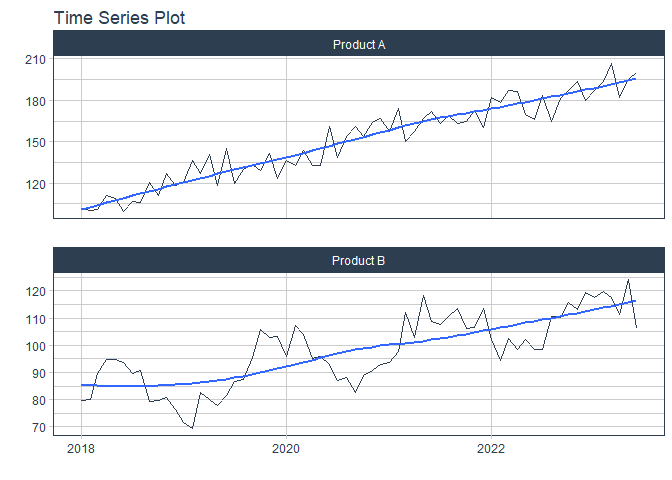
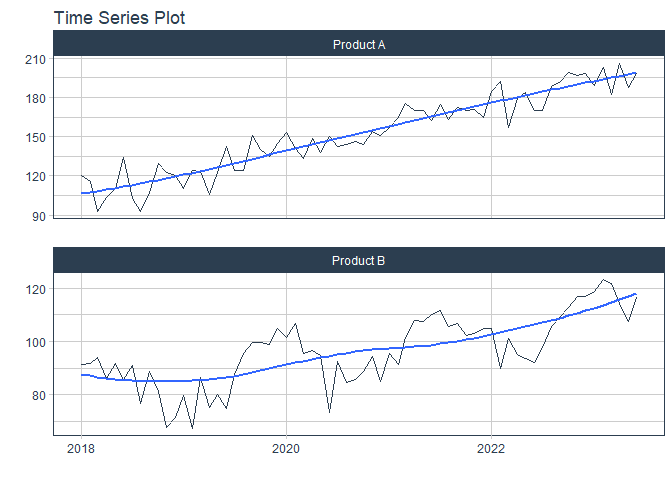
modeltime updated

diff --git a/Models/Modeltime/README.md b/Models/Modeltime/README.md
@@ -838,16 +838,16 @@ print(head(multi_series_data, 10))
     ## # A tibble: 10 × 3
     ##    id        date       value
     ##    <chr>     <date>     <dbl>
-    ##  1 Product A 2018-01-01 102. 
-    ##  2 Product A 2018-02-01 100. 
-    ##  3 Product A 2018-03-01 101. 
-    ##  4 Product A 2018-04-01 111. 
-    ##  5 Product A 2018-05-01 109. 
-    ##  6 Product A 2018-06-01  99.5
-    ##  7 Product A 2018-07-01 107. 
-    ##  8 Product A 2018-08-01 106. 
-    ##  9 Product A 2018-09-01 120. 
-    ## 10 Product A 2018-10-01 111.
+    ##  1 Product A 2018-01-01 120. 
+    ##  2 Product A 2018-02-01 116. 
+    ##  3 Product A 2018-03-01  93.0
+    ##  4 Product A 2018-04-01 103. 
+    ##  5 Product A 2018-05-01 110. 
+    ##  6 Product A 2018-06-01 134. 
+    ##  7 Product A 2018-07-01 103. 
+    ##  8 Product A 2018-08-01  92.8
+    ##  9 Product A 2018-09-01 108. 
+    ## 10 Product A 2018-10-01 129.
 
 # ploting the data by using group by
 
@@ -919,15 +919,15 @@ models_tbl %>%
     ## parsnip model object
     ## 
     ## Series: outcome 
-    ## ARIMA(0,0,4)(0,1,1)[12] with drift 
+    ## ARIMA(0,0,2)(2,1,2)[12] with drift 
     ## 
     ## Coefficients:
-    ##           ma1     ma2      ma3     ma4     sma1   drift
-    ##       -0.2760  0.1969  -0.2712  0.4477  -0.6949  0.4963
-    ## s.e.   0.0903  0.0807   0.0830  0.0997   0.0810  0.0317
+    ##           ma1     ma2     sar1     sar2     sma1    sma2   drift
+    ##       -0.0314  0.2847  -0.4202  -0.7038  -0.2038  0.5347  0.4928
+    ## s.e.   0.0997  0.0894   0.1649   0.1234   0.2114  0.1754  0.0615
     ## 
-    ## sigma^2 = 94.45:  log likelihood = -444.63
-    ## AIC=903.27   AICc=904.27   BIC=922.78
+    ## sigma^2 = 107.5:  log likelihood = -454.59
+    ## AIC=925.19   AICc=926.48   BIC=947.49
 
 ``` r
 # ETS Summary
@@ -937,27 +937,25 @@ models_tbl %>%
 
     ## parsnip model object
     ## 
-    ## ETS(M,A,M) 
+    ## ETS(M,N,M) 
     ## 
     ## Call:
     ## forecast::ets(y = outcome, model = model_ets, damped = damping_ets, 
     ##     alpha = alpha, beta = beta, gamma = gamma)
     ## 
     ##   Smoothing parameters:
-    ##     alpha = 0.041 
-    ##     beta  = 1e-04 
-    ##     gamma = 1e-04 
+    ##     alpha = 0.2367 
+    ##     gamma = 0.2862 
     ## 
     ##   Initial states:
-    ##     l = 96.7896 
-    ##     b = 0.4675 
-    ##     s = 0.7869 1.2262 0.8032 1.2235 0.7939 1.208
-    ##            0.8029 1.219 0.7899 1.2084 0.7679 1.1701
+    ##     l = 108.9712 
+    ##     s = 0.7861 1.2692 0.8056 1.1669 0.8087 1.1888
+    ##            0.8597 1.1584 0.8137 1.1522 0.8458 1.1448
     ## 
-    ##   sigma:  0.0925
+    ##   sigma:  0.1004
     ## 
     ##      AIC     AICc      BIC 
-    ## 1298.508 1303.876 1347.516
+    ## 1313.245 1317.383 1356.487
 
 ``` r
 # Prophet Model (no summary method, inspect structure)
@@ -1009,12 +1007,12 @@ calibration_tbl %>%
     ## # A tibble: 6 × 7
     ##   .model_id .model_desc .key   .index     .value .conf_lo .conf_hi
     ##       <int> <chr>       <fct>  <date>      <dbl>    <dbl>    <dbl>
-    ## 1        NA ACTUAL      actual 2018-01-01  102.        NA       NA
-    ## 2        NA ACTUAL      actual 2018-02-01  100.        NA       NA
-    ## 3        NA ACTUAL      actual 2018-03-01  101.        NA       NA
-    ## 4        NA ACTUAL      actual 2018-04-01  111.        NA       NA
-    ## 5        NA ACTUAL      actual 2018-05-01  109.        NA       NA
-    ## 6        NA ACTUAL      actual 2018-06-01   99.5       NA       NA
+    ## 1        NA ACTUAL      actual 2018-01-01  120.        NA       NA
+    ## 2        NA ACTUAL      actual 2018-02-01  116.        NA       NA
+    ## 3        NA ACTUAL      actual 2018-03-01   93.0       NA       NA
+    ## 4        NA ACTUAL      actual 2018-04-01  103.        NA       NA
+    ## 5        NA ACTUAL      actual 2018-05-01  110.        NA       NA
+    ## 6        NA ACTUAL      actual 2018-06-01  134.        NA       NA
 
 # ploting the forecasted values
 
@@ -1048,14 +1046,14 @@ calibration_tbl %>%
 
     ## # A tibble: 6 × 10
     ## # Groups:   id [2]
-    ##   .model_id .model_desc         .type id      mae  mape  mase smape  rmse    rsq
-    ##       <int> <chr>               <chr> <chr> <dbl> <dbl> <dbl> <dbl> <dbl>  <dbl>
-    ## 1         1 ARIMA(0,0,4)(0,1,1… Test  Prod…  6.56  3.24 0.933  3.29  7.55 0.322 
-    ## 2         2 ETS(M,A,M)          Test  Prod… 12.4   6.09 1.76   6.33 14.5  0.0978
-    ## 3         2 ETS(M,A,M)          Test  Prod… 17.0  16.1  3.05  14.7  18.1  0.218 
-    ## 4         1 ARIMA(0,0,4)(0,1,1… Test  Prod… 16.6  15.7  2.96  14.3  18.4  0.217 
-    ## 5         3 PROPHET             Test  Prod… 40.1  19.9  5.70  22.2  41.2  0.120 
-    ## 6         3 PROPHET             Test  Prod… 52.4  49.1  9.37  39.2  52.8  0.0774
+    ##   .model_id .model_desc        .type id      mae  mape  mase smape  rmse     rsq
+    ##       <int> <chr>              <chr> <chr> <dbl> <dbl> <dbl> <dbl> <dbl>   <dbl>
+    ## 1         2 ETS(M,N,M)         Test  Prod…  8.91  8.39  2.12  8.03  9.17 0.657  
+    ## 2         1 ARIMA(0,0,2)(2,1,… Test  Prod…  9.94  9.32  2.37  8.88 10.2  0.604  
+    ## 3         1 ARIMA(0,0,2)(2,1,… Test  Prod… 11.0   5.21  1.31  5.43 14.2  0.00639
+    ## 4         2 ETS(M,N,M)         Test  Prod… 13.6   6.42  1.62  6.69 15.6  0.00414
+    ## 5         3 PROPHET            Test  Prod… 46.7  22.3   5.59 25.2  47.3  0.00459
+    ## 6         3 PROPHET            Test  Prod… 55.0  51.5  13.1  40.9  55.2  0.0251
 
 use `table_modeltime_accuracy()` for interactive table for accurcy
 Evaluation
@@ -1084,7 +1082,7 @@ future_tbl <- multi_series_data %>% group_by(id) %>%
 
 ``` r
 forecast_future <- refit_tbl %>%
-  modeltime_forecast(new_data = future_tbl, actual_data = multi_series_data,conf_by_id = T)
+  modeltime_forecast(new_data = future_tbl, actual_data = multi_series_data,id = "id",conf_by_id = T)
 ```
 
     ## Adding missing grouping variables: `id`
@@ -1124,9 +1122,9 @@ forecast_future %>% head()
     ## # A tibble: 6 × 8
     ##   .model_id .model_desc .key   .index     .value .conf_lo .conf_hi id       
     ##       <int> <chr>       <fct>  <date>      <dbl>    <dbl>    <dbl> <chr>    
-    ## 1        NA ACTUAL      actual 2018-01-01  102.        NA       NA Product A
-    ## 2        NA ACTUAL      actual 2018-02-01  100.        NA       NA Product A
-    ## 3        NA ACTUAL      actual 2018-03-01  101.        NA       NA Product A
-    ## 4        NA ACTUAL      actual 2018-04-01  111.        NA       NA Product A
-    ## 5        NA ACTUAL      actual 2018-05-01  109.        NA       NA Product A
-    ## 6        NA ACTUAL      actual 2018-06-01   99.5       NA       NA Product A
+    ## 1        NA ACTUAL      actual 2018-01-01  120.        NA       NA Product A
+    ## 2        NA ACTUAL      actual 2018-02-01  116.        NA       NA Product A
+    ## 3        NA ACTUAL      actual 2018-03-01   93.0       NA       NA Product A
+    ## 4        NA ACTUAL      actual 2018-04-01  103.        NA       NA Product A
+    ## 5        NA ACTUAL      actual 2018-05-01  110.        NA       NA Product A
+    ## 6        NA ACTUAL      actual 2018-06-01  134.        NA       NA Product A
